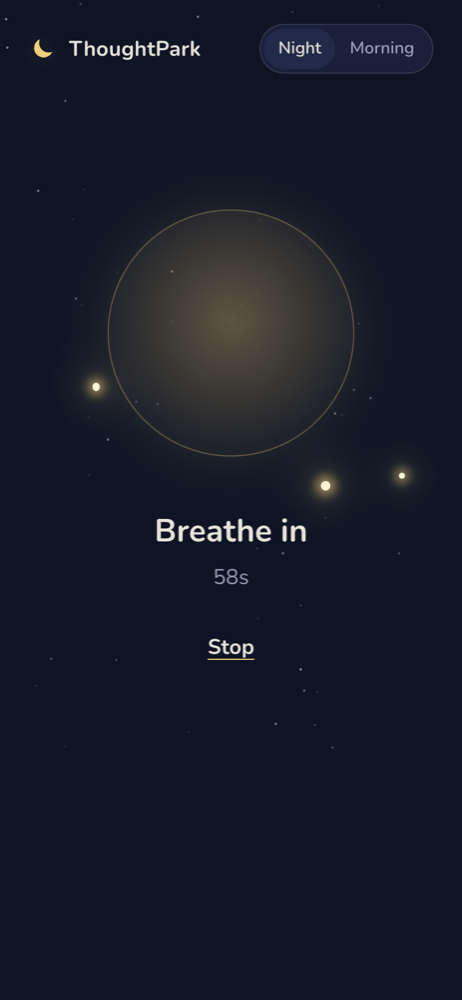
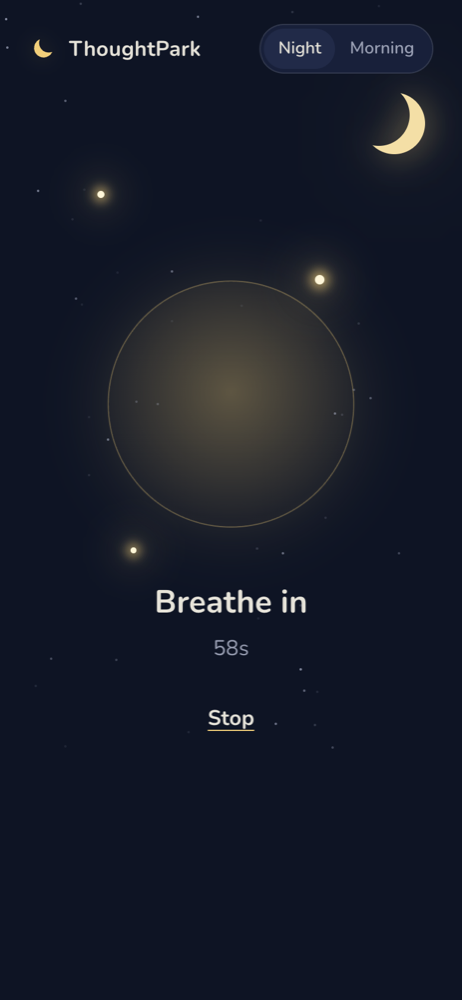
Add moon and rising sun, fix morning Let go animation

diff --git a/css/style.css b/css/style.css
@@ -130,6 +130,48 @@ body[data-theme="morning"] .sky-star { pointer-events: none; }
   transition: translate 2200ms var(--ease), opacity 2200ms var(--ease);
 }
 body[data-theme="morning"] .sky-sun { translate: -50% 0; opacity: .7; }
+
+/* Moon (night) and sun (morning) share a spot in the upper right. At sunrise
+   the moon sets and the sun rises. */
+.sky-moon, .sky-sun-disc {
+  position: absolute;
+  top: 78px;
+  right: max(8vw, 28px);
+  transition: translate 2400ms var(--ease), opacity 2000ms var(--ease), scale 800ms var(--ease);
+}
+.sky-moon {
+  width: 52px;
+  height: 52px;
+  border-radius: 50%;
+  /* The crescent is the shadow of a transparent circle. */
+  box-shadow: 13px 7px 0 0 #f4dfa6;
+  filter: drop-shadow(0 0 14px rgba(242, 207, 122, .55)) drop-shadow(0 0 40px rgba(242, 207, 122, .25));
+  translate: -13px -7px;
+}
+body[data-theme="morning"] .sky-moon { translate: -13px 40vh; opacity: 0; }
+
+.sky-sun-disc {
+  width: 58px;
+  height: 58px;
+  border-radius: 50%;
+  background: radial-gradient(circle at 42% 40%, #fff3c4, #ffd36b 45%, #f6a93b 100%);
+  box-shadow: 0 0 30px 10px rgba(255, 196, 90, .55), 0 0 90px 30px rgba(255, 180, 80, .3);
+  translate: 0 45vh;
+  opacity: 0;
+}
+.sky-sun-disc::before {
+  content: "";
+  position: absolute;
+  inset: -22px;
+  border-radius: 50%;
+  background: repeating-conic-gradient(rgba(255, 200, 90, .55) 0 6deg, transparent 6deg 24deg);
+  -webkit-mask: radial-gradient(closest-side, transparent 58%, #000 62%, transparent 100%);
+  mask: radial-gradient(closest-side, transparent 58%, #000 62%, transparent 100%);
+  animation: sun-rays 40s linear infinite;
+}
+@keyframes sun-rays { to { rotate: 360deg; } }
+body[data-theme="morning"] .sky-sun-disc { translate: 0 0; opacity: 1; }
+body.is-all-clear .sky-sun-disc { scale: 1.25; }
 body[data-theme="morning"] .sky-decor,
 body[data-theme="morning"] .sky-stars { opacity: 0; }
 
@@ -197,11 +239,11 @@ body.is-goodnight .sky { z-index: 3; }
 .mode-toggle button[aria-pressed="true"] { background: var(--surface-2); color: var(--text); }
 .mode-toggle button:focus-visible { outline: 2px solid var(--accent); outline-offset: 1px; }
 
-/* Screen column */
+/* Screen column. The extra top space is a strip of sky for the moon and sun. */
 .screen {
   max-width: 480px;
   margin: 0 auto;
-  padding: 28px 24px 120px;
+  padding: 88px 24px 120px;
 }
 
 .screen-title { font-size: 1.6rem; line-height: 1.25; margin: 8px 0 20px; font-weight: 700; }
@@ -387,7 +429,8 @@ body[data-theme="morning"] .morning-summary { color: #a8761c; }
 }
 .morning-letgo:hover { color: var(--text); background: var(--surface); }
 .morning-letgo:focus-visible { outline: 2px solid var(--accent); outline-offset: 2px; }
-.checklist li.is-releasing { pointer-events: none; animation: card-release var(--release-ms) var(--ease) forwards; }
+/* Higher specificity than .is-arriving / .is-entering so Let go always animates. */
+.checklist li.morning-item.is-releasing { pointer-events: none; animation: card-release var(--release-ms) var(--ease) forwards; }
 
 .check-box { position: relative; }
 .sunburst {
@@ -429,11 +472,11 @@ body.is-all-clear .sky-sun { opacity: 1; translate: -50% -12vh; }
 .falling-star {
   position: fixed;
   z-index: 4;
-  width: 8px;
-  height: 8px;
+  width: 12px;
+  height: 12px;
   border-radius: 50%;
-  background: #fff6d8;
-  box-shadow: 0 0 10px 4px rgba(242, 207, 122, .7), 0 0 30px 10px rgba(242, 207, 122, .3);
+  background: #fff3c4;
+  box-shadow: 0 0 0 2px rgba(246, 169, 59, .6), 0 0 14px 6px rgba(246, 169, 59, .7), 0 0 36px 14px rgba(246, 169, 59, .35);
   pointer-events: none;
 }
 .checklist li.is-waiting { opacity: 0; animation: none; }
@@ -560,7 +603,8 @@ body.is-all-clear .sky-sun { opacity: 1; translate: -50% -12vh; }
   .sky-dot, .sky-star, .sky-star.is-new, .prompt.is-fresh { animation: none; }
   .sky-shooting { animation: shoot-fade 600ms linear forwards; transform: rotate(-25deg); }
   @keyframes shoot-fade { from { opacity: .8; } to { opacity: 0; } }
-  .sky-sun, .sky-decor, .sky-stars { transition-duration: 1ms; }
+  .sky-sun, .sky-decor, .sky-stars, .sky-moon, .sky-sun-disc { transition-duration: 1ms; }
+  .sky-sun-disc::before { animation: none; }
   .breath-circle { transform: scale(.8); }
   .checklist li.is-arriving, .checklist li.is-arriving .check-box, .all-clear.is-fresh { animation: none; }
   .sleep-overlay { animation-duration: 400ms; }

diff --git a/js/sky.js b/js/sky.js
@@ -1,12 +1,15 @@
-// The night sky behind the screens: faint decorative stars, one bright star
-// per parked thought, shooting stars for released thoughts, and a sunrise.
+// The night sky behind the screens: faint decorative stars, the moon, one
+// bright star per parked thought, shooting stars for released thoughts, and
+// the sun that rises in the morning.
 import { starPosition } from './store.js';
 
 const sky = document.getElementById('sky');
 const decor = el('div', 'sky-decor');
 const stars = el('div', 'sky-stars');
 const sun = el('div', 'sky-sun');
-sky.append(decor, sun, stars);
+const sunDisc = el('div', 'sky-sun-disc');
+const moon = el('div', 'sky-moon');
+sky.append(decor, sun, sunDisc, moon, stars);
 
 function el(tag, className) {
   const node = document.createElement(tag);

diff --git a/js/app.js b/js/app.js
@@ -505,7 +505,7 @@ function arriveFromSky(list) {
       { transform: 'translate(-50%, -50%) scale(1)', opacity: 1 },
       { transform: `translate(calc(-50% + ${dx * 0.35}px), calc(-50% + ${dy * 0.6}px)) scale(1.5)`, opacity: 1, offset: 0.55 },
       { transform: `translate(calc(-50% + ${dx}px), calc(-50% + ${dy}px)) scale(.7)`, opacity: 0.2 },
-    ], { duration: 1100, delay: 350 + i * 200, easing: 'cubic-bezier(.45, 0, .25, 1)', fill: 'both' });
+    ], { duration: 1400, delay: 500 + i * 250, easing: 'cubic-bezier(.45, 0, .25, 1)', fill: 'both' });
 
     const land = () => {
       flyer.remove();

diff --git a/devpost/spec.md b/devpost/spec.md
@@ -82,7 +82,7 @@ Chooses Night or Morning from `modeForHour(new Date().getHours())` on load; a sm
 PRD ref: `prd.md > Screens and Layout`.
 
 ### Night sky (`js/sky.js`)
-A fixed, full-screen layer behind the content (`<div id="sky">`), drawn with plain DOM elements and CSS animation, not a canvas. Holds ~40 faint decorative stars (fixed seed) and one bright star per open parked thought. Star positions come from `starPosition(id)` in `store.js`, a hash of the thought's id, so each star stays put between visits. Exposes `renderSky(parked)`, `shootingStar()`, and `hideStarInfo()`; the sunrise is pure CSS driven by `body[data-theme]`. Bright stars accept pointer events (with an enlarged invisible hit area) and show a tooltip with the thought's text and parked time: hover for mouse, tap to toggle for touch. Empty areas of the page content pass pointer events through so stars behind them stay reachable. Hidden in the morning theme after the sunrise transition.
+A fixed, full-screen layer behind the content (`<div id="sky">`), drawn with plain DOM elements and CSS animation, not a canvas. Holds a CSS crescent moon and a sun disc with rotating rays that swap places on the theme change, in a strip of sky kept free above the content (the screen has extra top padding), ~45 faint decorative stars (fixed seed) and one bright star per open parked thought. Star positions come from `starPosition(id)` in `store.js`, a hash of the thought's id, so each star stays put between visits. Exposes `renderSky(parked)`, `shootingStar()`, and `hideStarInfo()`; the sunrise is pure CSS driven by `body[data-theme]`. Bright stars accept pointer events (with an enlarged invisible hit area) and show a tooltip with the thought's text and parked time: hover for mouse, tap to toggle for touch. Empty areas of the page content pass pointer events through so stars behind them stay reachable. Hidden in the morning theme after the sunrise transition.
 PRD ref: `prd.md > Night sky`.
 
 ### Gentle prompts (`js/app.js` → prompt timer)

diff --git a/devpost/checklist.md b/devpost/checklist.md
@@ -78,6 +78,7 @@ Build mode: fast (learner approved)
 
 - [x] Star info: hovering or tapping a parked star shows its thought and parked time — learner request at final review; verified on desktop (hover) and phone (tap), all slice checks re-run.
 - [x] Morning moments: stars fall into the list, check-off burst and All clear, morning Let go, last night's summary — learner request at final review; learner approved all four. Verified: 20 browser checks (normal and reduced motion), 4 new unit tests, all earlier checks re-run.
+- [x] Moon at night, sun in the morning, and a visible morning Let go animation — learner feedback ("In the morning, there should be a sun… even I click let it go, I can't see any animation. In the night, there should be a moon"). The Let go bug: the arrival animation rule overrode the release animation; fixed with a more specific selector and verified by reading the running animation name.
 - [ ] Final review complete — feedback resolved and learner confirms ready to ship
 
 ## Code Tour and App Map

diff --git a/README.md b/README.md
@@ -20,6 +20,7 @@ ThoughtPark turns that into a calm nightly ritual. You don't only write thoughts
 ## What it does
 
 - **Park or let go.** Each thought becomes a card. "Let it go" makes it blur and drift away, and it's never saved. "Tomorrow" parks it.
+- **Moon and sun.** A crescent moon watches over the night; in the morning it sets and the sun rises in its place.
 - **Your thoughts become stars.** Every parked thought appears as a star in the night sky behind the app, always in the same place. Hover over a star (or tap it on a phone) to see which thought it is and when you parked it. Letting a thought go sends a shooting star across the sky.
 - **Gentle prompts.** If you stop typing, soft questions appear ("Someone you need to reply to?") to help you empty your mind completely.
 - **All parked. Goodnight.** When nothing is left, a quiet goodnight screen shows what you parked and released.

diff --git a/devpost/prd.md b/devpost/prd.md
@@ -67,6 +67,7 @@ Added after the first checkpoint at the learner's request (Innovation, Design).
   - [ ] Undo restores the sky to match (the star returns or disappears).
   - [ ] Hovering a star with the mouse (or tapping it on a phone) shows that thought's text and when it was parked; moving away or tapping elsewhere hides it. (Added at the learner's request during final review.)
   - [ ] Switching to Morning plays a short sunrise: the sky warms and the stars fade as the checklist appears.
+  - [ ] A crescent moon is visible in the night sky; in the morning the moon sets and a sun with slowly turning rays rises in its place, without covering any text. (Added at the learner's request during final review.)
   - [ ] With reduced motion, stars appear and disappear without movement.
 
 ### Gentle prompts
